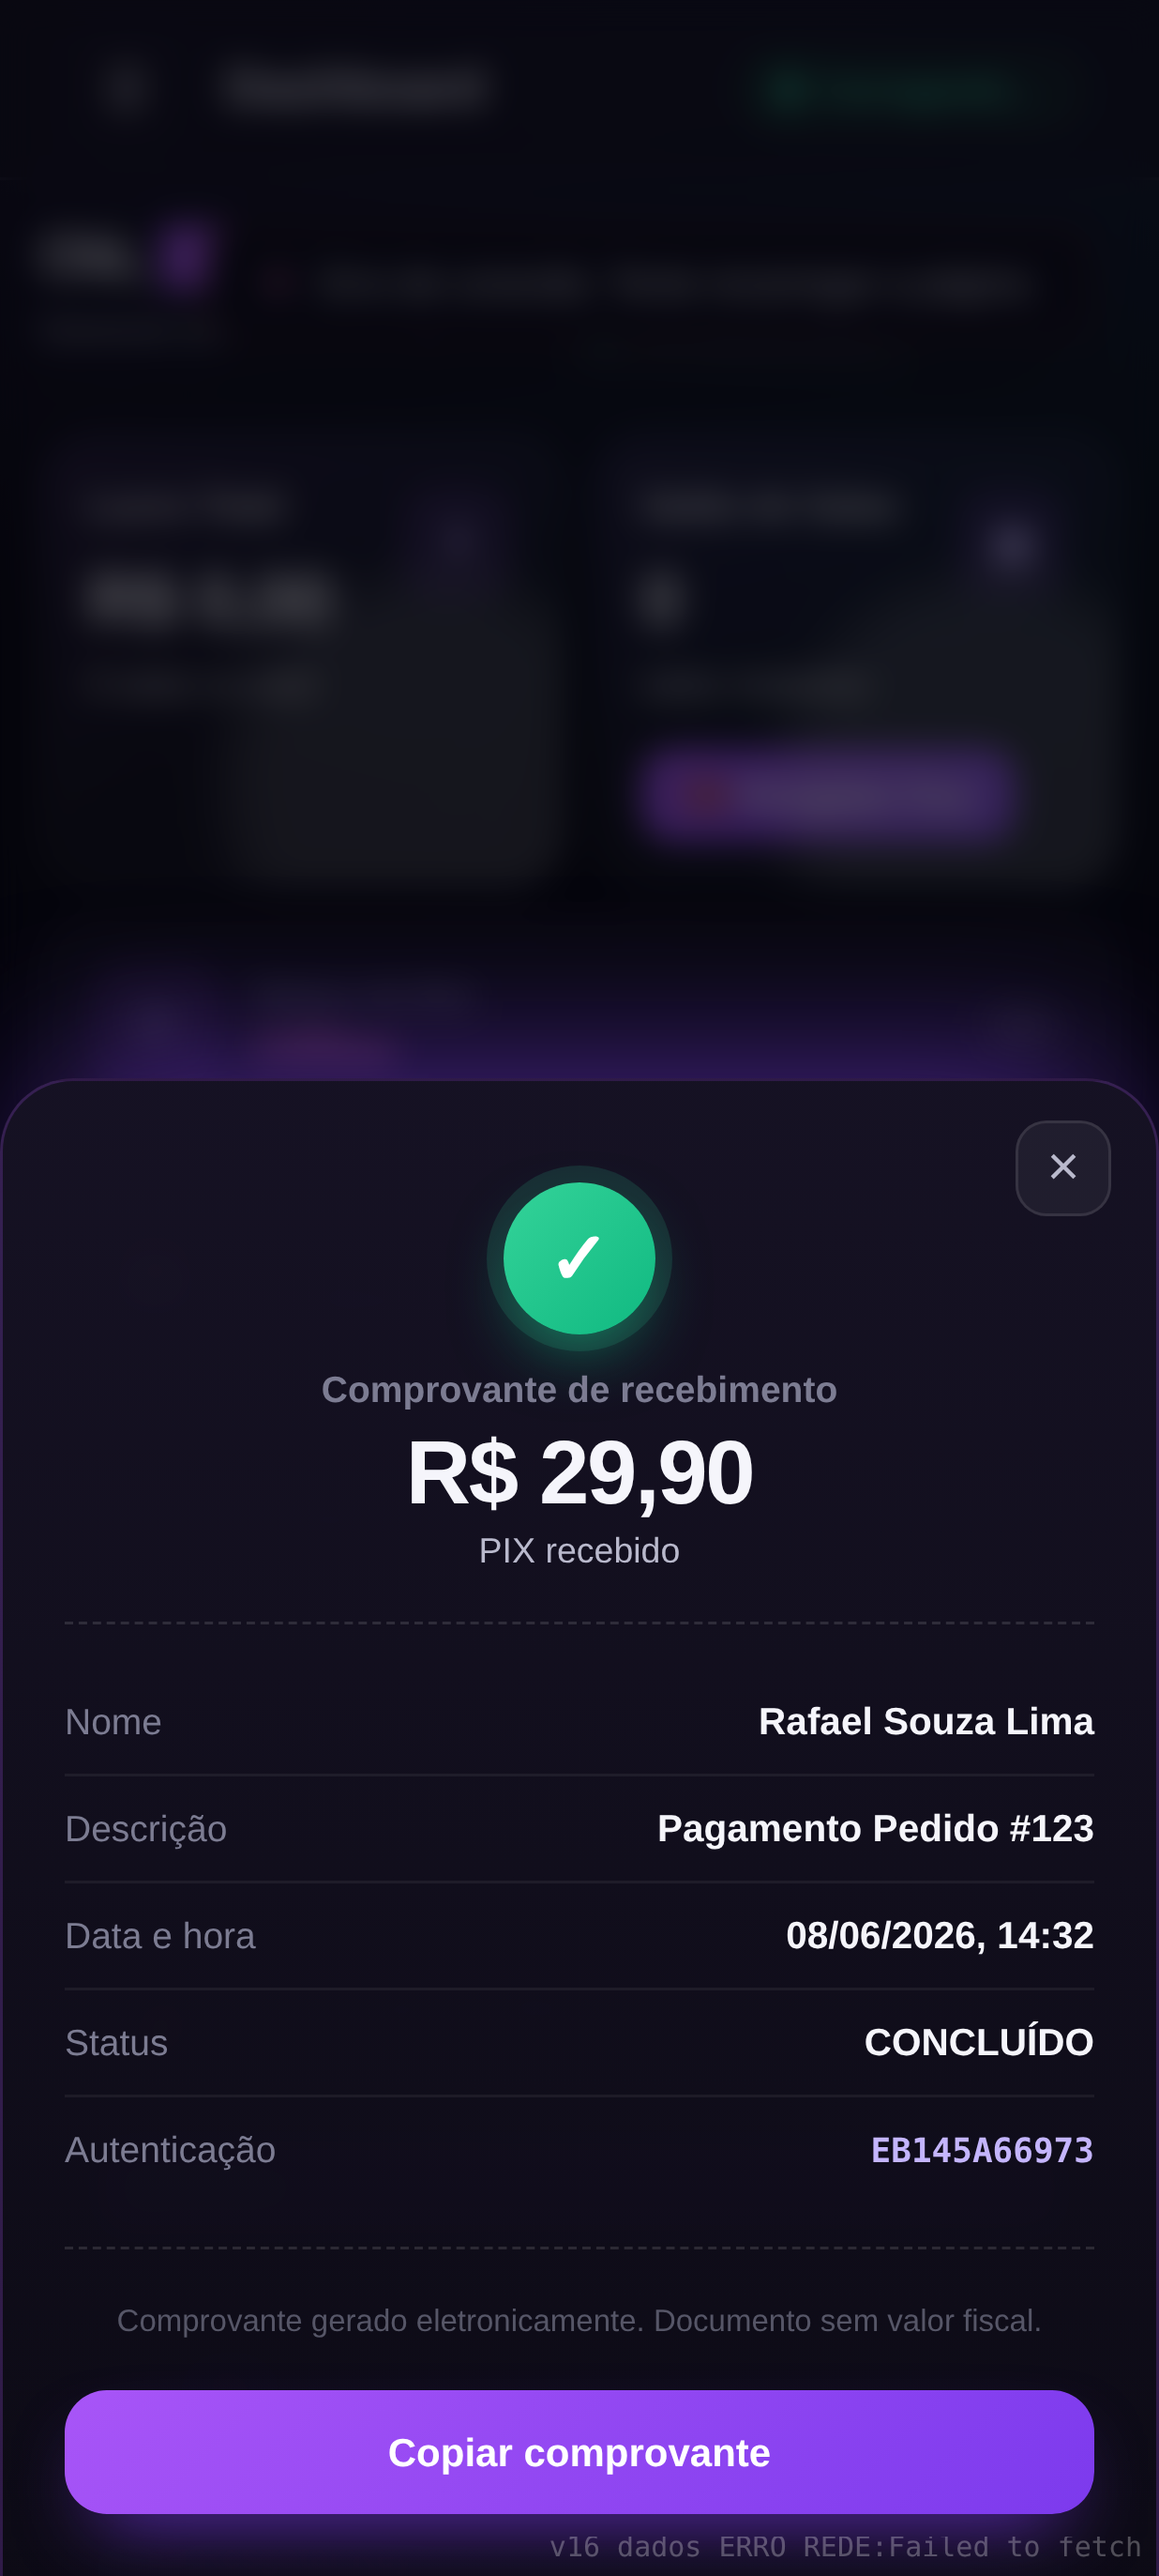
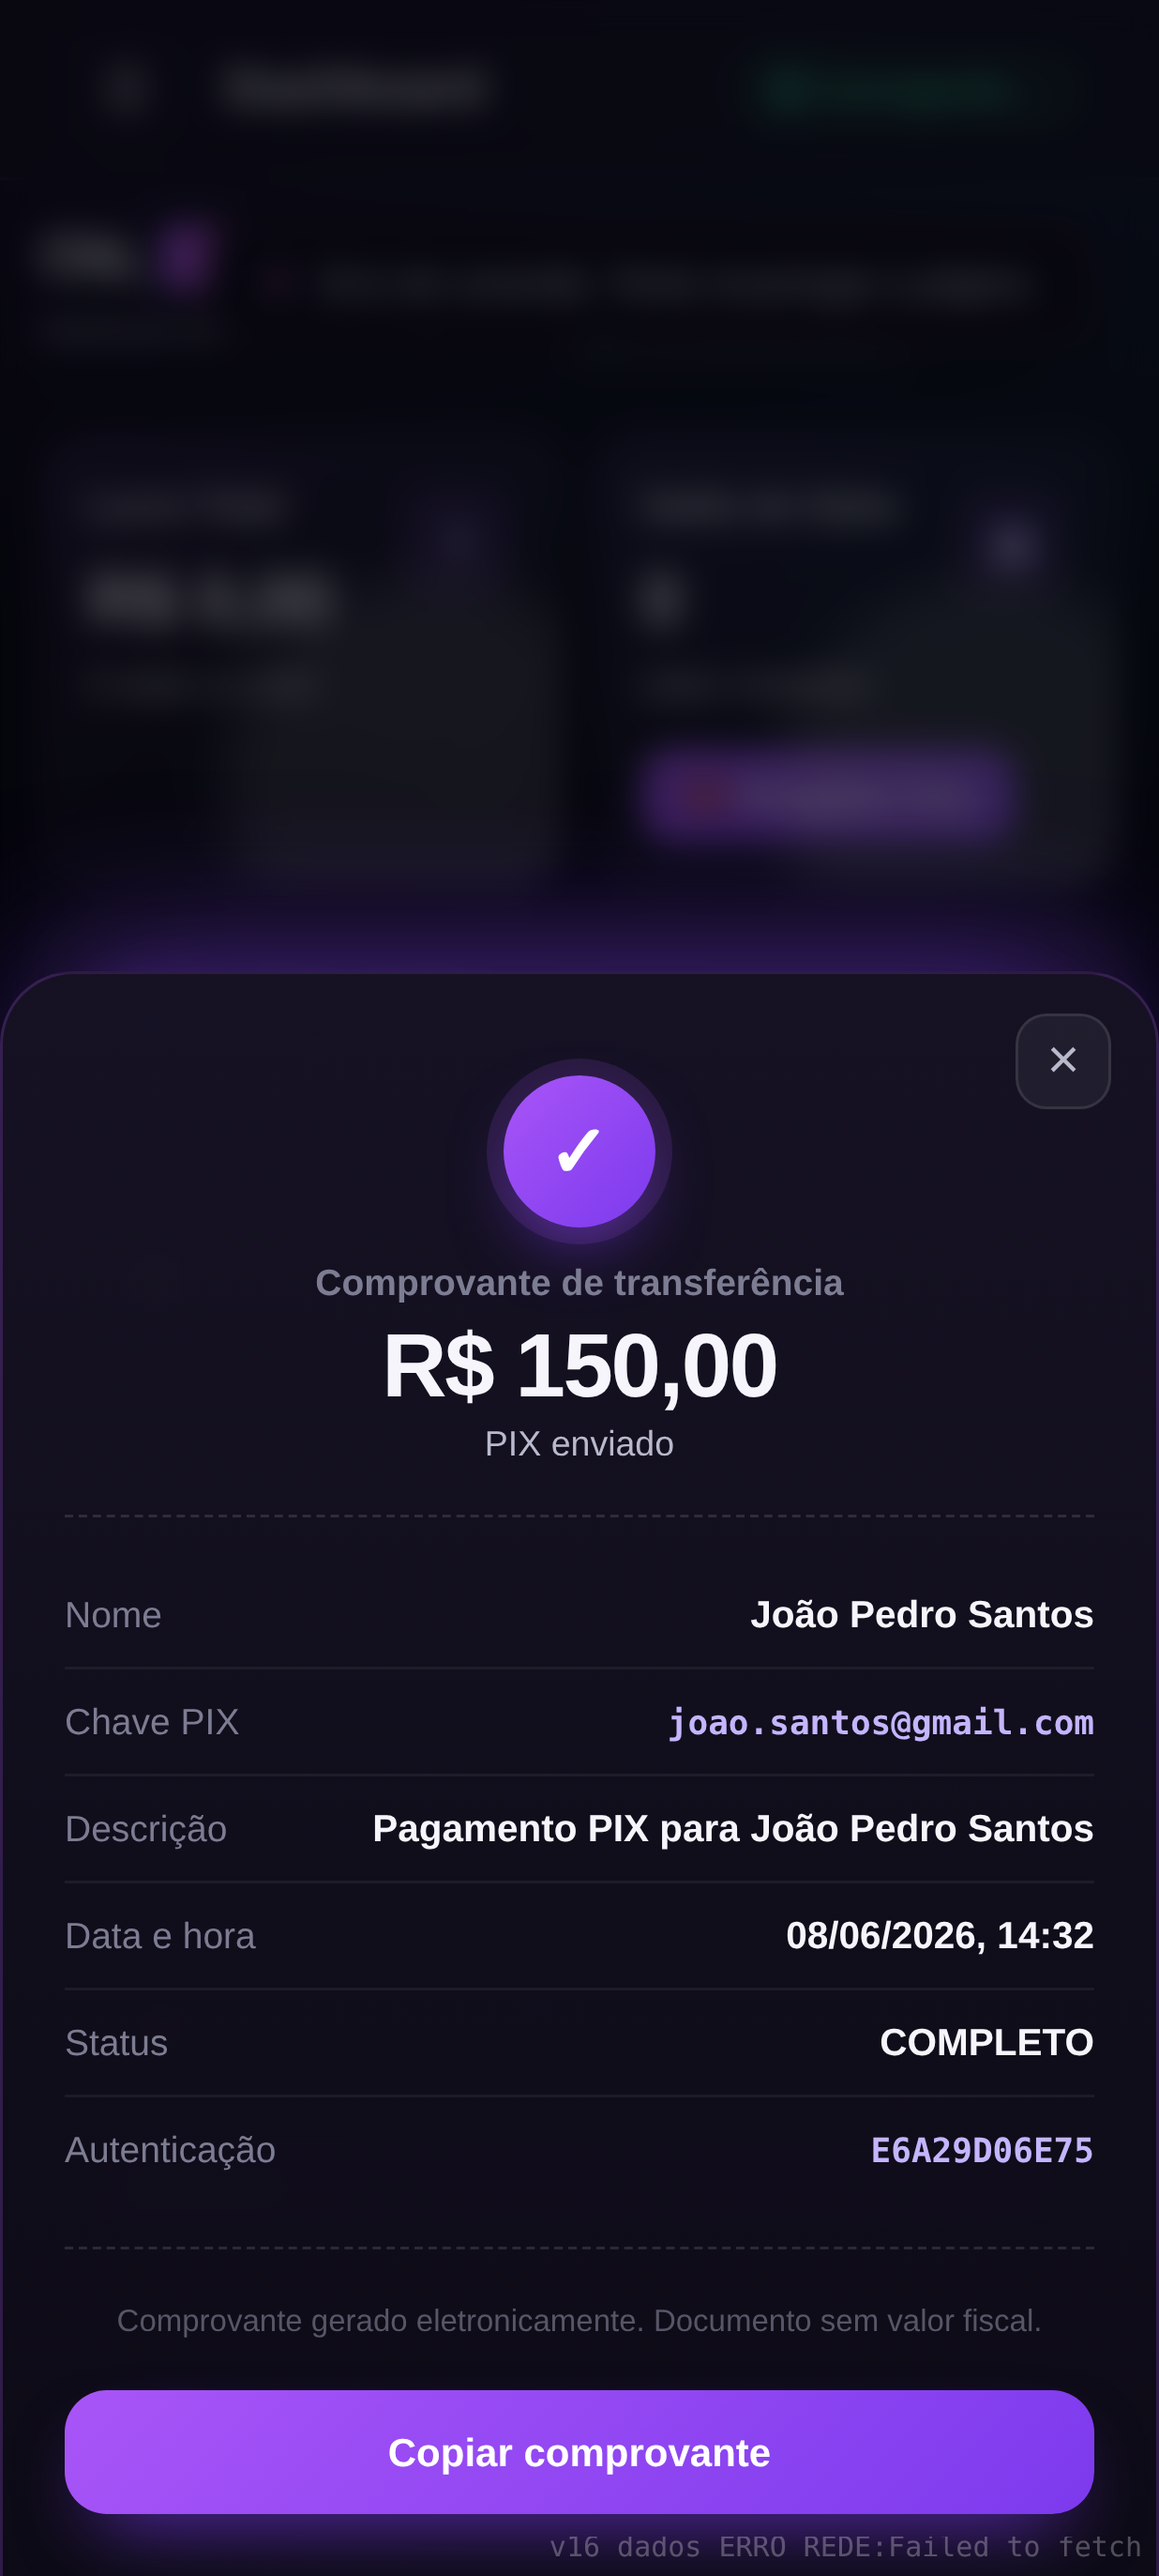
Comprovante .pix: puxa nome do recebedor + chave PIX no extrato
- wallet.get_extrato: select rico (nome/nome_recebedor/pagador/banco) com
  fallback seguro se a coluna não existir no schema
- Comprovante usa o nome do recebedor do pagamento .pix (ou extrai da
  descrição) e exibe a Chave PIX; incluídos no copiar comprovante

diff --git a/painelcliente/templates/index.html b/painelcliente/templates/index.html
@@ -3120,6 +3120,7 @@ img{ -webkit-user-drag:none; user-drag:none; pointer-events:auto; }
         </div>
         <div class="cmp-rows">
           <div class="cmp-r"><span>Nome</span><b id="cmp-nome">—</b></div>
+          <div class="cmp-r" id="cmp-chave-row" style="display:none;"><span>Chave PIX</span><b class="cmp-mono" id="cmp-chave">—</b></div>
           <div class="cmp-r"><span>Descrição</span><b id="cmp-desc">—</b></div>
           <div class="cmp-r"><span>Data e hora</span><b id="cmp-data">—</b></div>
           <div class="cmp-r"><span>Status</span><b id="cmp-status">—</b></div>
@@ -3870,6 +3871,13 @@ function _esc(s){ const d=document.createElement('div'); d.textContent=s==null?'
 let _extratoAtual = [];
 let _carteiraNome = '—';
 
+// Tenta extrair um nome de pessoa da descrição da transação (.pix).
+// Ex: "Pagamento PIX para João Silva" → "João Silva".
+function _nomeDaDescricao(desc){
+  if (!desc) return '';
+  const m = String(desc).match(/(?:para|pix p\/|pra|dest\.?:?|recebedor:?)\s+([A-Za-zÀ-ÿ][A-Za-zÀ-ÿ.'\s]{2,40})/i);
+  return m ? m[1].trim() : '';
+}
 // Deriva um id de autenticação curto e estável a partir do que a transação tiver.
 function _comprovAuth(t){
   const base = String(t.id || t.txid || t.transactionId || t.created_at || Math.random());
@@ -3885,18 +3893,25 @@ function abrirComprovante(i){
   const titulo = dep ? 'Comprovante de recebimento' : 'Comprovante de transferência';
   const data = t.created_at ? new Date(t.created_at) : new Date();
   const dataFmt = data.toLocaleString('pt-BR',{day:'2-digit',month:'2-digit',year:'numeric',hour:'2-digit',minute:'2-digit'});
-  const nome = (t.nome || t.pagador || t.cliente || _carteiraNome || '—');
+  // Nome do "cara" do pagamento .pix: usa o nome do recebedor/pagador gravado
+  // na transação; se não tiver, tenta extrair da descrição; por fim o cliente.
+  const nome = (t.nome || t.nome_recebedor || t.pagador || t.cliente
+                || _nomeDaDescricao(t.descricao) || _carteiraNome || '—');
   const status = (t.status || 'CONCLUÍDO');
   const auth = _comprovAuth(t);
+  const pixKey = t.pix_key || t.chave || '';
   const set=(id,v)=>{const e=document.getElementById(id); if(e) e.textContent=v;};
+  const show=(id,on)=>{const e=document.getElementById(id); if(e) e.style.display = on ? '' : 'none';};
   set('cmp-titulo', titulo);
   set('cmp-valor', 'R$ ' + _fmtMoney(t.valor));
   set('cmp-tipo', dep ? 'PIX recebido' : 'PIX enviado');
   set('cmp-nome', nome);
+  set('cmp-chave', pixKey);
+  show('cmp-chave-row', !!pixKey);
   set('cmp-data', dataFmt);
   set('cmp-status', status);
   set('cmp-auth', auth);
-  set('cmp-desc', t.descricao || (dep ? 'Depósito na carteira' : 'Saque da carteira'));
+  set('cmp-desc', t.descricao || (dep ? 'Depósito na carteira' : 'Pagamento PIX'));
   const badge = document.getElementById('cmp-badge');
   if (badge) badge.className = 'cmp-badge ' + (dep ? 'in' : 'out');
   const ov = document.getElementById('modal-comprovante');
@@ -3907,15 +3922,17 @@ function fecharComprovante(){
   if (ov) ov.classList.remove('aberto');
 }
 function copiarComprovante(){
+  const chaveRow = document.getElementById('cmp-chave-row');
   const linhas = [
     'COMPROVANTE PIX',
     document.getElementById('cmp-tipo').textContent,
     'Valor: ' + document.getElementById('cmp-valor').textContent,
     'Nome: ' + document.getElementById('cmp-nome').textContent,
+    (chaveRow && chaveRow.style.display !== 'none') ? ('Chave PIX: ' + document.getElementById('cmp-chave').textContent) : null,
     'Data: ' + document.getElementById('cmp-data').textContent,
     'Autenticação: ' + document.getElementById('cmp-auth').textContent,
     'Status: ' + document.getElementById('cmp-status').textContent,
-  ].join('\n');
+  ].filter(Boolean).join('\n');
   try { navigator.clipboard.writeText(linhas); toast('Comprovante copiado.', 'ok'); }
   catch(e){ toast('Não foi possível copiar.', 'erro'); }
 }

diff --git a/painelcliente/utils/wallet.py b/painelcliente/utils/wallet.py
@@ -58,20 +58,29 @@ def get_extrato(client_id: str, limite: int = 20) -> list:
     if not disponivel() or not client_id:
         return []
     url = f"{SUPABASE_URL}/rest/v1/wallet_transactions"
-    params = {
+    base = {
         "client_id": f"eq.{client_id}",
-        "select": "id,tipo,valor,status,txid,pix_key,descricao,created_at",
         "order": "created_at.desc",
         "limit": str(int(limite)),
     }
-    try:
-        r = requests.get(url, headers=_headers(), params=params, timeout=_TIMEOUT)
-        if r.status_code == 200:
-            return r.json() or []
-        return []
-    except Exception as e:
-        print(f"[WALLET] erro get_extrato: {e}", flush=True)
-        return []
+    # Tenta um select rico — inclui o NOME do recebedor/pagador do PIX pra que o
+    # comprovante do site (gerado a partir do extrato) mostre "o nome do cara"
+    # do pagamento .pix. Se o schema não tiver alguma coluna, o PostgREST
+    # devolve 400 e a gente cai no próximo select, até o seguro.
+    selects = [
+        "id,tipo,valor,status,txid,pix_key,descricao,nome,nome_recebedor,pagador,banco,created_at",
+        "id,tipo,valor,status,txid,pix_key,descricao,nome,created_at",
+        "id,tipo,valor,status,txid,pix_key,descricao,created_at",
+    ]
+    for sel in selects:
+        try:
+            params = dict(base, select=sel)
+            r = requests.get(url, headers=_headers(), params=params, timeout=_TIMEOUT)
+            if r.status_code == 200:
+                return r.json() or []
+        except Exception as e:
+            print(f"[WALLET] erro get_extrato: {e}", flush=True)
+    return []
 
 
 def resumo(client_id: str) -> dict:
